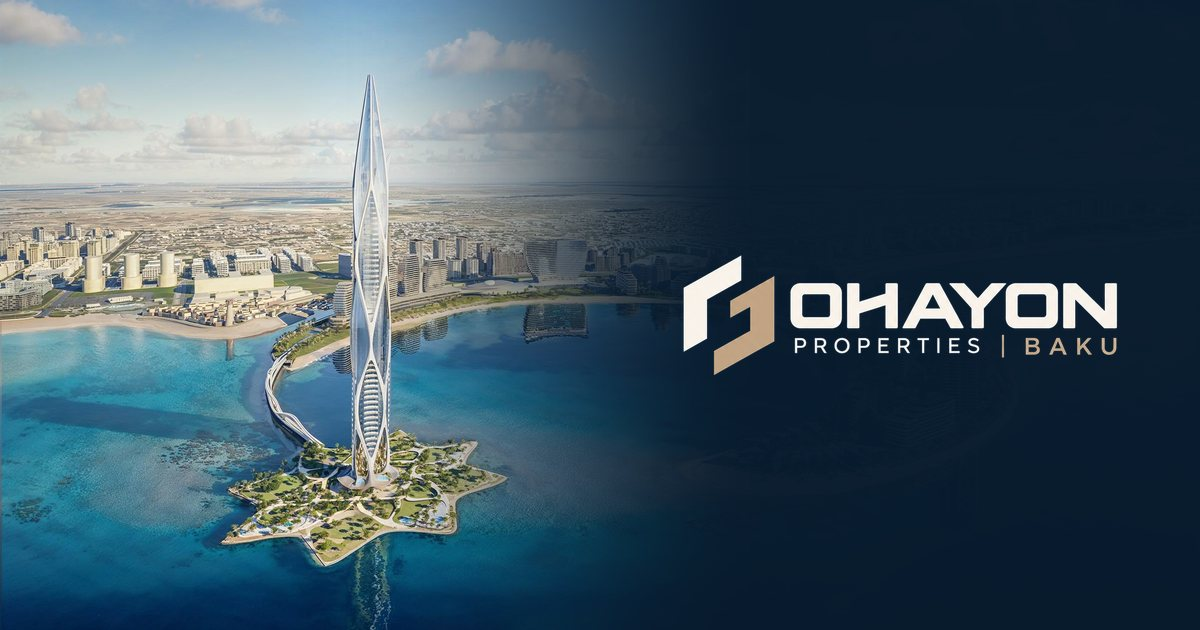
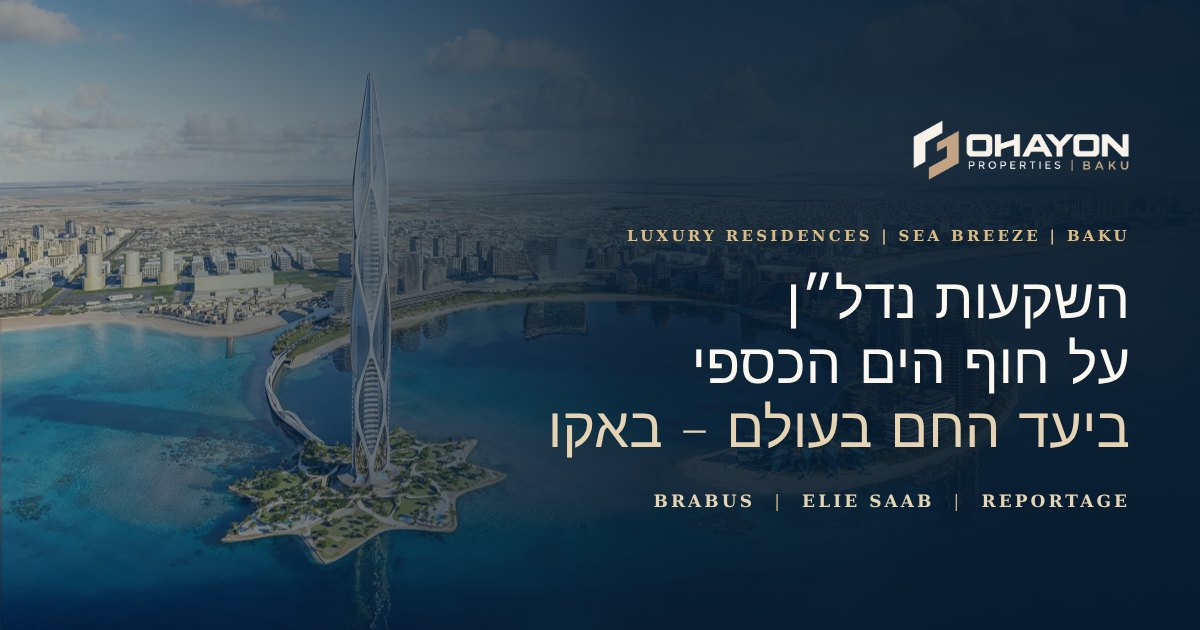
Design polish: unified separators, card locations, real Marina photo in About, richer footer, mobile fab hidden, new share image
Claude-Session: https://claude.ai/code/session_01J11ZVVVPG6asAy6iU8BUaW

diff --git a/index.html b/index.html
@@ -312,6 +312,12 @@ a:focus-visible,button:focus-visible,input:focus-visible,select:focus-visible{ou
 .hero .lead{margin-top:58px!important}
 @media (max-width:860px){.hero .lead{margin-top:44px!important}}
 @media (min-width:861px) and (max-height:780px){.hero{min-height:700px!important}.hero-in{padding-top:96px!important;padding-bottom:40px!important}.hero .eb{margin-bottom:44px!important}.hero .lead{margin-top:34px!important}}
+.hero .ln{display:none!important}
+.eb i,.card .ct i{font-style:normal;font-family:'Heebo',sans-serif;font-weight:200;color:#CBB089;margin:0 .6em;letter-spacing:0}
+@media (max-width:860px){.fab{display:none!important}}
+.ab-tag{position:absolute;bottom:16px;right:16px;background:rgba(8,27,45,.78);color:#F4EFE6;font-size:13px;padding:6px 14px;border-radius:999px;-webkit-backdrop-filter:blur(6px);backdrop-filter:blur(6px)}
+.ftr-brand p{margin:14px 0 6px;font-size:14px;color:#C9C3B8;max-width:340px;line-height:1.7}
+.ftr-brand a{font-size:14px;color:#E4D3B4;text-decoration:underline;text-underline-offset:4px}
 </style>
 <style id="a11y-css">
 .skip{position:fixed;top:-80px;right:16px;z-index:10000;background:#FFFFFF;color:#081B2D;padding:12px 22px;border-radius:999px;font:500 15px 'Heebo',Arial,sans-serif;box-shadow:0 10px 30px rgba(0,0,0,.35);transition:top .2s ease;text-decoration:none}
@@ -392,7 +398,7 @@ html.a11y-noanim .rv,html.a11y-noanim .up,html.a11y-noanim .hero-img{opacity:1!i
 <div class="sh2"></div>
 <div class="wrap hero-in">
 <div style="max-width: 760px">
-<div class="eb up">Luxury Residences · Sea Breeze · Baku</div>
+<div class="eb up">Luxury Residences <i aria-hidden="true">|</i> Sea Breeze <i aria-hidden="true">|</i> Baku</div>
 <div class="ln up d1"></div>
 <h1 class="h1 up d1" id="hero-title">השקעות נדל״ן<br>על חוף הים הכספי<br><span>ביעד החם בעולם – באקו</span></h1>
 <p class="lead up d2"><span class="brands" dir="ltr">BRABUS <i aria-hidden="true">|</i> ELIE SAAB <i aria-hidden="true">|</i> REPORTAGE</span></p>
@@ -420,12 +426,12 @@ html.a11y-noanim .rv,html.a11y-noanim .up,html.a11y-noanim .hero-img{opacity:1!i
 <p class="p">פרויקטי היוקרה של Sea Breeze, בהם פרויקטי הדגל של Sabah Investment Group ו-Reportage Group, בשיווק ישיר. לכל פרויקט עמוד מלא עם גלריה, תוכניות דירה ומידע על היזם.</p>
 </div>
 <div class="pgrid">
-<a class="card rv" href="brabus.html"><img src="assets/img/projects/brabus-island.jpg" alt="BRABUS Island Baku – הדמיה" loading="lazy" decoding="async"><div class="cs"></div><div class="cb"><div class="ct">SEA BREEZE · BAKU</div><div class="cn">BRABUS ISLAND</div><p class="cd">מגורי יוקרה בסטנדרט בינלאומי</p><div class="cl"></div></div></a>
+<a class="card rv" href="brabus.html"><img src="assets/img/projects/brabus-island.jpg" alt="BRABUS Island Baku – הדמיה" loading="lazy" decoding="async"><div class="cs"></div><div class="cb"><div class="ct">SEA BREEZE <i aria-hidden="true">|</i> BAKU</div><div class="cn">BRABUS ISLAND</div><p class="cd">מגורי יוקרה בסטנדרט בינלאומי</p><div class="cl"></div></div></a>
 <a class="card rv" href="panorama-elie-saab.html"><img src="assets/img/projects/panorama-elie-saab.jpg" alt="Panorama by ELIE SAAB – הדמיה" loading="lazy" decoding="async"><div class="cs"></div><div class="cb"><div class="ct">BY ELIE SAAB</div><div class="cn">PANORAMA</div><p class="cd">מגורים יוקרתיים בעיצוב ייחודי</p><div class="cl"></div></div></a>
-<a class="card rv" href="reportage-heights.html"><img src="assets/img/projects/reportage-heights.jpg" alt="Reportage Heights – הדמיה" loading="lazy" decoding="async"><div class="cs"></div><div class="cb"><div class="ct">BAKU</div><div class="cn">REPORTAGE HEIGHTS</div><p class="cd">דירות מגורים בפרויקט מודרני</p><div class="cl"></div></div></a>
-<a class="card rv" href="sabah-towers.html"><img src="assets/img/projects/sabah-towers.jpg" alt="Sabah Towers – הדמיה" loading="lazy" decoding="async"><div class="cs"></div><div class="cb"><div class="ct">BAKU</div><div class="cn">SABAH TOWERS</div><p class="cd">מגדלי מגורים בעיצוב מודרני</p><div class="cl"></div></div></a>
-<a class="card rv" href="arabian-ranches.html"><img src="assets/img/projects/arabian-ranches.jpg" alt="Arabian Ranches Baku – הדמיה" loading="lazy" decoding="async"><div class="cs"></div><div class="cb"><div class="ct">SEA BREEZE</div><div class="cn">ARABIAN RANCHES</div><p class="cd">מגורי יוקרה בהשראת אדריכלות מזרחית</p><div class="cl"></div></div></a>
-<a class="card rv" href="marina-village.html"><img src="assets/img/projects/marina-village.jpg" alt="Marina Village – הדמיה" loading="lazy" decoding="async"><div class="cs"></div><div class="cb"><div class="ct">SEA BREEZE</div><div class="cn">MARINA VILLAGE</div><p class="cd">מגורים באווירת חוף ומרינה</p><div class="cl"></div></div></a>
+<a class="card rv" href="reportage-heights.html"><img src="assets/img/projects/reportage-heights.jpg" alt="Reportage Heights – הדמיה" loading="lazy" decoding="async"><div class="cs"></div><div class="cb"><div class="ct">SEA BREEZE <i aria-hidden="true">|</i> BAKU</div><div class="cn">REPORTAGE HEIGHTS</div><p class="cd">דירות מגורים בפרויקט מודרני</p><div class="cl"></div></div></a>
+<a class="card rv" href="sabah-towers.html"><img src="assets/img/projects/sabah-towers.jpg" alt="Sabah Towers – הדמיה" loading="lazy" decoding="async"><div class="cs"></div><div class="cb"><div class="ct">SEA BREEZE <i aria-hidden="true">|</i> BAKU</div><div class="cn">SABAH TOWERS</div><p class="cd">מגדלי מגורים בעיצוב מודרני</p><div class="cl"></div></div></a>
+<a class="card rv" href="arabian-ranches.html"><img src="assets/img/projects/arabian-ranches.jpg" alt="Arabian Ranches Baku – הדמיה" loading="lazy" decoding="async"><div class="cs"></div><div class="cb"><div class="ct">SEA BREEZE <i aria-hidden="true">|</i> BAKU</div><div class="cn">ARABIAN RANCHES</div><p class="cd">מגורי יוקרה בהשראת אדריכלות מזרחית</p><div class="cl"></div></div></a>
+<a class="card rv" href="marina-village.html"><img src="assets/img/projects/marina-village.jpg" alt="Marina Village – הדמיה" loading="lazy" decoding="async"><div class="cs"></div><div class="cb"><div class="ct">SEA BREEZE <i aria-hidden="true">|</i> BAKU</div><div class="cn">MARINA VILLAGE</div><p class="cd">מגורים באווירת חוף ומרינה</p><div class="cl"></div></div></a>
 </div>
 <div class="pcta rv"><div><strong>לא בטוחים איזה פרויקט מתאים לכם?</strong><span>ספרו לנו מה התקציב והמטרה, ונציע את ההתאמה הנכונה.</span></div><a href="#contact" class="btn b-gold">עזרו לי לבחור</a></div>
 <div class="direct rv" aria-labelledby="direct-title">
@@ -445,7 +451,7 @@ html.a11y-noanim .rv,html.a11y-noanim .up,html.a11y-noanim .hero-img{opacity:1!i
 <div class="wrap split">
 <div class="ab-img rv">
 <div class="ab-fr"></div>
-<img src="assets/img/about-interior.jpg" alt="חלל מגורים בפרויקט BRABUS Island – הדמיה" loading="lazy" decoding="async">
+<img src="assets/img/about-marina-real.jpg" alt="Marina Village במתחם Sea Breeze – צילום אמיתי מהשטח" loading="lazy" decoding="async"><span class="ab-tag">צילום אמיתי מהשטח · Marina Village</span>
 
 </div>
 <div class="rv">
@@ -542,12 +548,12 @@ html.a11y-noanim .rv,html.a11y-noanim .up,html.a11y-noanim .hero-img{opacity:1!i
 <footer class="ftr">
 <div class="wrap">
 <div class="ftr-g">
-<img src="assets/img/logo-light.png" alt="OHAYON PROPERTIES | BAKU" style="height: 52px; width: auto">
+<div class="ftr-brand"><img src="assets/img/logo-light.png" alt="OHAYON PROPERTIES | BAKU" style="height: 52px; width: auto"><p>השקעות נדל״ן על חוף הים הכספי. עבודה ישירה מול היזם, ליווי אישי בעברית.</p><a href="mailto:ohayon.baku@gmail.com" dir="ltr">ohayon.baku@gmail.com</a></div>
 <nav class="ftr-l" aria-label="קישורים">
 <a href="#projects">הפרויקטים</a>
-<a href="articles.html">מדריך למשקיע</a>
-<a href="articles.html">מאמרים</a>
-<a href="articles.html">מדריכים</a>
+<a href="articles.html">מאמרים ומדריכים</a>
+<a href="#process">תהליך הרכישה</a>
+<a href="#contact">צור קשר</a>
 <a href="#about">אודות</a>
 </nav>
 </div>

diff --git a/20-questions-before-buying-baku.html b/20-questions-before-buying-baku.html
@@ -154,6 +154,8 @@ a.acard:hover .im img{transform:scale(1.05)}
 .ftr-g{display:flex;justify-content:space-between;align-items:flex-start;gap:40px;flex-wrap:wrap}
 .ftr-l{display:flex;gap:30px;font-size:14px;flex-wrap:wrap}
 .ftr-l a{color:#C9C3B8}.ftr-l a:hover{color:#E4D3B4}
+.ftr-brand p{margin:14px 0 6px;font-size:14px;color:#C9C3B8;max-width:340px;line-height:1.7}
+.ftr-brand a{font-size:14px;color:#E4D3B4;text-decoration:underline;text-underline-offset:4px}
 .legal{margin-top:28px;padding-top:22px;border-top:1px solid rgba(203,176,137,.2);display:flex;justify-content:space-between;gap:24px;flex-wrap:wrap;font-size:13px;line-height:1.7;color:#ABA59A}
 @media (max-width:1100px){.nav{gap:22px}.alay{grid-template-columns:minmax(0,1fr) 230px;gap:30px}.art{padding:44px 40px}}
 @media (max-width:860px){
@@ -281,7 +283,7 @@ html.a11y-noanim .rv,html.a11y-noanim .up,html.a11y-noanim .hero-img{opacity:1!i
 <footer class="ftr">
 <div class="wrap">
 <div class="ftr-g">
-<img src="assets/img/logo-light.png" alt="OHAYON PROPERTIES | BAKU" style="height:48px;width:auto">
+<div class="ftr-brand"><img src="assets/img/logo-light.png" alt="OHAYON PROPERTIES | BAKU" style="height:48px;width:auto"><p>השקעות נדל״ן על חוף הים הכספי. עבודה ישירה מול היזם, ליווי אישי בעברית.</p><a href="mailto:ohayon.baku@gmail.com" dir="ltr">ohayon.baku@gmail.com</a></div>
 <nav class="ftr-l" aria-label="קישורים">
 <a href="index.html#projects">הפרויקטים</a>
 <a href="articles.html">מאמרים ומדריכים</a>

diff --git a/accessibility.html b/accessibility.html
@@ -128,6 +128,8 @@ a.acard:hover .im img{transform:scale(1.05)}
 .ftr-g{display:flex;justify-content:space-between;align-items:flex-start;gap:40px;flex-wrap:wrap}
 .ftr-l{display:flex;gap:30px;font-size:14px;flex-wrap:wrap}
 .ftr-l a{color:#C9C3B8}.ftr-l a:hover{color:#E4D3B4}
+.ftr-brand p{margin:14px 0 6px;font-size:14px;color:#C9C3B8;max-width:340px;line-height:1.7}
+.ftr-brand a{font-size:14px;color:#E4D3B4;text-decoration:underline;text-underline-offset:4px}
 .legal{margin-top:28px;padding-top:22px;border-top:1px solid rgba(203,176,137,.2);display:flex;justify-content:space-between;gap:24px;flex-wrap:wrap;font-size:13px;line-height:1.7;color:#ABA59A}
 @media (max-width:1100px){.nav{gap:22px}.alay{grid-template-columns:minmax(0,1fr) 230px;gap:30px}.art{padding:44px 40px}}
 @media (max-width:860px){
@@ -267,7 +269,7 @@ html.a11y-noanim .rv,html.a11y-noanim .up,html.a11y-noanim .hero-img{opacity:1!i
 <footer class="ftr">
 <div class="wrap">
 <div class="ftr-g">
-<img src="assets/img/logo-light.png" alt="OHAYON PROPERTIES | BAKU" style="height:48px;width:auto">
+<div class="ftr-brand"><img src="assets/img/logo-light.png" alt="OHAYON PROPERTIES | BAKU" style="height:48px;width:auto"><p>השקעות נדל״ן על חוף הים הכספי. עבודה ישירה מול היזם, ליווי אישי בעברית.</p><a href="mailto:ohayon.baku@gmail.com" dir="ltr">ohayon.baku@gmail.com</a></div>
 <nav class="ftr-l" aria-label="קישורים">
 <a href="index.html#projects">הפרויקטים</a>
 <a href="articles.html">מאמרים ומדריכים</a>

diff --git a/articles.html b/articles.html
@@ -135,6 +135,8 @@ a.acard:hover .im img{transform:scale(1.05)}
 .ftr-g{display:flex;justify-content:space-between;align-items:flex-start;gap:40px;flex-wrap:wrap}
 .ftr-l{display:flex;gap:30px;font-size:14px;flex-wrap:wrap}
 .ftr-l a{color:#C9C3B8}.ftr-l a:hover{color:#E4D3B4}
+.ftr-brand p{margin:14px 0 6px;font-size:14px;color:#C9C3B8;max-width:340px;line-height:1.7}
+.ftr-brand a{font-size:14px;color:#E4D3B4;text-decoration:underline;text-underline-offset:4px}
 .legal{margin-top:28px;padding-top:22px;border-top:1px solid rgba(203,176,137,.2);display:flex;justify-content:space-between;gap:24px;flex-wrap:wrap;font-size:13px;line-height:1.7;color:#ABA59A}
 @media (max-width:1100px){.nav{gap:22px}.alay{grid-template-columns:minmax(0,1fr) 230px;gap:30px}.art{padding:44px 40px}}
 @media (max-width:860px){
@@ -250,7 +252,7 @@ html.a11y-noanim .rv,html.a11y-noanim .up,html.a11y-noanim .hero-img{opacity:1!i
 <footer class="ftr">
 <div class="wrap">
 <div class="ftr-g">
-<img src="assets/img/logo-light.png" alt="OHAYON PROPERTIES | BAKU" style="height:48px;width:auto">
+<div class="ftr-brand"><img src="assets/img/logo-light.png" alt="OHAYON PROPERTIES | BAKU" style="height:48px;width:auto"><p>השקעות נדל״ן על חוף הים הכספי. עבודה ישירה מול היזם, ליווי אישי בעברית.</p><a href="mailto:ohayon.baku@gmail.com" dir="ltr">ohayon.baku@gmail.com</a></div>
 <nav class="ftr-l" aria-label="קישורים">
 <a href="index.html#projects">הפרויקטים</a>
 <a href="articles.html">מאמרים ומדריכים</a>

diff --git a/azerbaijan-economy.html b/azerbaijan-economy.html
@@ -154,6 +154,8 @@ a.acard:hover .im img{transform:scale(1.05)}
 .ftr-g{display:flex;justify-content:space-between;align-items:flex-start;gap:40px;flex-wrap:wrap}
 .ftr-l{display:flex;gap:30px;font-size:14px;flex-wrap:wrap}
 .ftr-l a{color:#C9C3B8}.ftr-l a:hover{color:#E4D3B4}
+.ftr-brand p{margin:14px 0 6px;font-size:14px;color:#C9C3B8;max-width:340px;line-height:1.7}
+.ftr-brand a{font-size:14px;color:#E4D3B4;text-decoration:underline;text-underline-offset:4px}
 .legal{margin-top:28px;padding-top:22px;border-top:1px solid rgba(203,176,137,.2);display:flex;justify-content:space-between;gap:24px;flex-wrap:wrap;font-size:13px;line-height:1.7;color:#ABA59A}
 @media (max-width:1100px){.nav{gap:22px}.alay{grid-template-columns:minmax(0,1fr) 230px;gap:30px}.art{padding:44px 40px}}
 @media (max-width:860px){
@@ -281,7 +283,7 @@ html.a11y-noanim .rv,html.a11y-noanim .up,html.a11y-noanim .hero-img{opacity:1!i
 <footer class="ftr">
 <div class="wrap">
 <div class="ftr-g">
-<img src="assets/img/logo-light.png" alt="OHAYON PROPERTIES | BAKU" style="height:48px;width:auto">
+<div class="ftr-brand"><img src="assets/img/logo-light.png" alt="OHAYON PROPERTIES | BAKU" style="height:48px;width:auto"><p>השקעות נדל״ן על חוף הים הכספי. עבודה ישירה מול היזם, ליווי אישי בעברית.</p><a href="mailto:ohayon.baku@gmail.com" dir="ltr">ohayon.baku@gmail.com</a></div>
 <nav class="ftr-l" aria-label="קישורים">
 <a href="index.html#projects">הפרויקטים</a>
 <a href="articles.html">מאמרים ומדריכים</a>

diff --git a/azerbaijan-israel-property-tax.html b/azerbaijan-israel-property-tax.html
@@ -154,6 +154,8 @@ a.acard:hover .im img{transform:scale(1.05)}
 .ftr-g{display:flex;justify-content:space-between;align-items:flex-start;gap:40px;flex-wrap:wrap}
 .ftr-l{display:flex;gap:30px;font-size:14px;flex-wrap:wrap}
 .ftr-l a{color:#C9C3B8}.ftr-l a:hover{color:#E4D3B4}
+.ftr-brand p{margin:14px 0 6px;font-size:14px;color:#C9C3B8;max-width:340px;line-height:1.7}
+.ftr-brand a{font-size:14px;color:#E4D3B4;text-decoration:underline;text-underline-offset:4px}
 .legal{margin-top:28px;padding-top:22px;border-top:1px solid rgba(203,176,137,.2);display:flex;justify-content:space-between;gap:24px;flex-wrap:wrap;font-size:13px;line-height:1.7;color:#ABA59A}
 @media (max-width:1100px){.nav{gap:22px}.alay{grid-template-columns:minmax(0,1fr) 230px;gap:30px}.art{padding:44px 40px}}
 @media (max-width:860px){
@@ -293,7 +295,7 @@ html.a11y-noanim .rv,html.a11y-noanim .up,html.a11y-noanim .hero-img{opacity:1!i
 <footer class="ftr">
 <div class="wrap">
 <div class="ftr-g">
-<img src="assets/img/logo-light.png" alt="OHAYON PROPERTIES | BAKU" style="height:48px;width:auto">
+<div class="ftr-brand"><img src="assets/img/logo-light.png" alt="OHAYON PROPERTIES | BAKU" style="height:48px;width:auto"><p>השקעות נדל״ן על חוף הים הכספי. עבודה ישירה מול היזם, ליווי אישי בעברית.</p><a href="mailto:ohayon.baku@gmail.com" dir="ltr">ohayon.baku@gmail.com</a></div>
 <nav class="ftr-l" aria-label="קישורים">
 <a href="index.html#projects">הפרויקטים</a>
 <a href="articles.html">מאמרים ומדריכים</a>

diff --git a/azerbaijan-tourism.html b/azerbaijan-tourism.html
@@ -154,6 +154,8 @@ a.acard:hover .im img{transform:scale(1.05)}
 .ftr-g{display:flex;justify-content:space-between;align-items:flex-start;gap:40px;flex-wrap:wrap}
 .ftr-l{display:flex;gap:30px;font-size:14px;flex-wrap:wrap}
 .ftr-l a{color:#C9C3B8}.ftr-l a:hover{color:#E4D3B4}
+.ftr-brand p{margin:14px 0 6px;font-size:14px;color:#C9C3B8;max-width:340px;line-height:1.7}
+.ftr-brand a{font-size:14px;color:#E4D3B4;text-decoration:underline;text-underline-offset:4px}
 .legal{margin-top:28px;padding-top:22px;border-top:1px solid rgba(203,176,137,.2);display:flex;justify-content:space-between;gap:24px;flex-wrap:wrap;font-size:13px;line-height:1.7;color:#ABA59A}
 @media (max-width:1100px){.nav{gap:22px}.alay{grid-template-columns:minmax(0,1fr) 230px;gap:30px}.art{padding:44px 40px}}
 @media (max-width:860px){
@@ -281,7 +283,7 @@ html.a11y-noanim .rv,html.a11y-noanim .up,html.a11y-noanim .hero-img{opacity:1!i
 <footer class="ftr">
 <div class="wrap">
 <div class="ftr-g">
-<img src="assets/img/logo-light.png" alt="OHAYON PROPERTIES | BAKU" style="height:48px;width:auto">
+<div class="ftr-brand"><img src="assets/img/logo-light.png" alt="OHAYON PROPERTIES | BAKU" style="height:48px;width:auto"><p>השקעות נדל״ן על חוף הים הכספי. עבודה ישירה מול היזם, ליווי אישי בעברית.</p><a href="mailto:ohayon.baku@gmail.com" dir="ltr">ohayon.baku@gmail.com</a></div>
 <nav class="ftr-l" aria-label="קישורים">
 <a href="index.html#projects">הפרויקטים</a>
 <a href="articles.html">מאמרים ומדריכים</a>

diff --git a/azerbaijani-cuisine.html b/azerbaijani-cuisine.html
@@ -154,6 +154,8 @@ a.acard:hover .im img{transform:scale(1.05)}
 .ftr-g{display:flex;justify-content:space-between;align-items:flex-start;gap:40px;flex-wrap:wrap}
 .ftr-l{display:flex;gap:30px;font-size:14px;flex-wrap:wrap}
 .ftr-l a{color:#C9C3B8}.ftr-l a:hover{color:#E4D3B4}
+.ftr-brand p{margin:14px 0 6px;font-size:14px;color:#C9C3B8;max-width:340px;line-height:1.7}
+.ftr-brand a{font-size:14px;color:#E4D3B4;text-decoration:underline;text-underline-offset:4px}
 .legal{margin-top:28px;padding-top:22px;border-top:1px solid rgba(203,176,137,.2);display:flex;justify-content:space-between;gap:24px;flex-wrap:wrap;font-size:13px;line-height:1.7;color:#ABA59A}
 @media (max-width:1100px){.nav{gap:22px}.alay{grid-template-columns:minmax(0,1fr) 230px;gap:30px}.art{padding:44px 40px}}
 @media (max-width:860px){
@@ -281,7 +283,7 @@ html.a11y-noanim .rv,html.a11y-noanim .up,html.a11y-noanim .hero-img{opacity:1!i
 <footer class="ftr">
 <div class="wrap">
 <div class="ftr-g">
-<img src="assets/img/logo-light.png" alt="OHAYON PROPERTIES | BAKU" style="height:48px;width:auto">
+<div class="ftr-brand"><img src="assets/img/logo-light.png" alt="OHAYON PROPERTIES | BAKU" style="height:48px;width:auto"><p>השקעות נדל״ן על חוף הים הכספי. עבודה ישירה מול היזם, ליווי אישי בעברית.</p><a href="mailto:ohayon.baku@gmail.com" dir="ltr">ohayon.baku@gmail.com</a></div>
 <nav class="ftr-l" aria-label="קישורים">
 <a href="index.html#projects">הפרויקטים</a>
 <a href="articles.html">מאמרים ומדריכים</a>

diff --git a/baku-apartment-prices.html b/baku-apartment-prices.html
@@ -154,6 +154,8 @@ a.acard:hover .im img{transform:scale(1.05)}
 .ftr-g{display:flex;justify-content:space-between;align-items:flex-start;gap:40px;flex-wrap:wrap}
 .ftr-l{display:flex;gap:30px;font-size:14px;flex-wrap:wrap}
 .ftr-l a{color:#C9C3B8}.ftr-l a:hover{color:#E4D3B4}
+.ftr-brand p{margin:14px 0 6px;font-size:14px;color:#C9C3B8;max-width:340px;line-height:1.7}
+.ftr-brand a{font-size:14px;color:#E4D3B4;text-decoration:underline;text-underline-offset:4px}
 .legal{margin-top:28px;padding-top:22px;border-top:1px solid rgba(203,176,137,.2);display:flex;justify-content:space-between;gap:24px;flex-wrap:wrap;font-size:13px;line-height:1.7;color:#ABA59A}
 @media (max-width:1100px){.nav{gap:22px}.alay{grid-template-columns:minmax(0,1fr) 230px;gap:30px}.art{padding:44px 40px}}
 @media (max-width:860px){
@@ -281,7 +283,7 @@ html.a11y-noanim .rv,html.a11y-noanim .up,html.a11y-noanim .hero-img{opacity:1!i
 <footer class="ftr">
 <div class="wrap">
 <div class="ftr-g">
-<img src="assets/img/logo-light.png" alt="OHAYON PROPERTIES | BAKU" style="height:48px;width:auto">
+<div class="ftr-brand"><img src="assets/img/logo-light.png" alt="OHAYON PROPERTIES | BAKU" style="height:48px;width:auto"><p>השקעות נדל״ן על חוף הים הכספי. עבודה ישירה מול היזם, ליווי אישי בעברית.</p><a href="mailto:ohayon.baku@gmail.com" dir="ltr">ohayon.baku@gmail.com</a></div>
 <nav class="ftr-l" aria-label="קישורים">
 <a href="index.html#projects">הפרויקטים</a>
 <a href="articles.html">מאמרים ומדריכים</a>

diff --git a/baku-from-oil-to-modern-city.html b/baku-from-oil-to-modern-city.html
@@ -156,6 +156,8 @@ a.acard:hover .im img{transform:scale(1.05)}
 .ftr-g{display:flex;justify-content:space-between;align-items:flex-start;gap:40px;flex-wrap:wrap}
 .ftr-l{display:flex;gap:30px;font-size:14px;flex-wrap:wrap}
 .ftr-l a{color:#C9C3B8}.ftr-l a:hover{color:#E4D3B4}
+.ftr-brand p{margin:14px 0 6px;font-size:14px;color:#C9C3B8;max-width:340px;line-height:1.7}
+.ftr-brand a{font-size:14px;color:#E4D3B4;text-decoration:underline;text-underline-offset:4px}
 .legal{margin-top:28px;padding-top:22px;border-top:1px solid rgba(203,176,137,.2);display:flex;justify-content:space-between;gap:24px;flex-wrap:wrap;font-size:13px;line-height:1.7;color:#ABA59A}
 @media (max-width:1100px){.nav{gap:22px}.alay{grid-template-columns:minmax(0,1fr) 230px;gap:30px}.art{padding:44px 40px}}
 @media (max-width:860px){
@@ -376,7 +378,7 @@ html.a11y-noanim .rv,html.a11y-noanim .up,html.a11y-noanim .hero-img{opacity:1!i
 <footer class="ftr">
 <div class="wrap">
 <div class="ftr-g">
-<img src="assets/img/logo-light.png" alt="OHAYON PROPERTIES | BAKU" style="height:48px;width:auto">
+<div class="ftr-brand"><img src="assets/img/logo-light.png" alt="OHAYON PROPERTIES | BAKU" style="height:48px;width:auto"><p>השקעות נדל״ן על חוף הים הכספי. עבודה ישירה מול היזם, ליווי אישי בעברית.</p><a href="mailto:ohayon.baku@gmail.com" dir="ltr">ohayon.baku@gmail.com</a></div>
 <nav class="ftr-l" aria-label="קישורים">
 <a href="index.html#projects">הפרויקטים</a>
 <a href="articles.html">מאמרים ומדריכים</a>

diff --git a/baku-guide-2026.html b/baku-guide-2026.html
@@ -147,6 +147,8 @@ a.acard:hover .im img{transform:scale(1.05)}
 .ftr-g{display:flex;justify-content:space-between;align-items:flex-start;gap:40px;flex-wrap:wrap}
 .ftr-l{display:flex;gap:30px;font-size:14px;flex-wrap:wrap}
 .ftr-l a{color:#C9C3B8}.ftr-l a:hover{color:#E4D3B4}
+.ftr-brand p{margin:14px 0 6px;font-size:14px;color:#C9C3B8;max-width:340px;line-height:1.7}
+.ftr-brand a{font-size:14px;color:#E4D3B4;text-decoration:underline;text-underline-offset:4px}
 .legal{margin-top:28px;padding-top:22px;border-top:1px solid rgba(203,176,137,.2);display:flex;justify-content:space-between;gap:24px;flex-wrap:wrap;font-size:13px;line-height:1.7;color:#ABA59A}
 @media (max-width:1100px){.nav{gap:22px}.alay{grid-template-columns:minmax(0,1fr) 230px;gap:30px}.art{padding:44px 40px}}
 @media (max-width:860px){
@@ -347,7 +349,7 @@ html.a11y-noanim .rv,html.a11y-noanim .up,html.a11y-noanim .hero-img{opacity:1!i
 <footer class="ftr">
 <div class="wrap">
 <div class="ftr-g">
-<img src="assets/img/logo-light.png" alt="OHAYON PROPERTIES | BAKU" style="height:48px;width:auto">
+<div class="ftr-brand"><img src="assets/img/logo-light.png" alt="OHAYON PROPERTIES | BAKU" style="height:48px;width:auto"><p>השקעות נדל״ן על חוף הים הכספי. עבודה ישירה מול היזם, ליווי אישי בעברית.</p><a href="mailto:ohayon.baku@gmail.com" dir="ltr">ohayon.baku@gmail.com</a></div>
 <nav class="ftr-l" aria-label="קישורים">
 <a href="index.html#projects">הפרויקטים</a>
 <a href="articles.html">מאמרים ומדריכים</a>

diff --git a/baku-real-estate-investment-guide.html b/baku-real-estate-investment-guide.html
@@ -154,6 +154,8 @@ a.acard:hover .im img{transform:scale(1.05)}
 .ftr-g{display:flex;justify-content:space-between;align-items:flex-start;gap:40px;flex-wrap:wrap}
 .ftr-l{display:flex;gap:30px;font-size:14px;flex-wrap:wrap}
 .ftr-l a{color:#C9C3B8}.ftr-l a:hover{color:#E4D3B4}
+.ftr-brand p{margin:14px 0 6px;font-size:14px;color:#C9C3B8;max-width:340px;line-height:1.7}
+.ftr-brand a{font-size:14px;color:#E4D3B4;text-decoration:underline;text-underline-offset:4px}
 .legal{margin-top:28px;padding-top:22px;border-top:1px solid rgba(203,176,137,.2);display:flex;justify-content:space-between;gap:24px;flex-wrap:wrap;font-size:13px;line-height:1.7;color:#ABA59A}
 @media (max-width:1100px){.nav{gap:22px}.alay{grid-template-columns:minmax(0,1fr) 230px;gap:30px}.art{padding:44px 40px}}
 @media (max-width:860px){
@@ -293,7 +295,7 @@ html.a11y-noanim .rv,html.a11y-noanim .up,html.a11y-noanim .hero-img{opacity:1!i
 <footer class="ftr">
 <div class="wrap">
 <div class="ftr-g">
-<img src="assets/img/logo-light.png" alt="OHAYON PROPERTIES | BAKU" style="height:48px;width:auto">
+<div class="ftr-brand"><img src="assets/img/logo-light.png" alt="OHAYON PROPERTIES | BAKU" style="height:48px;width:auto"><p>השקעות נדל״ן על חוף הים הכספי. עבודה ישירה מול היזם, ליווי אישי בעברית.</p><a href="mailto:ohayon.baku@gmail.com" dir="ltr">ohayon.baku@gmail.com</a></div>
 <nav class="ftr-l" aria-label="קישורים">
 <a href="index.html#projects">הפרויקטים</a>
 <a href="articles.html">מאמרים ומדריכים</a>
